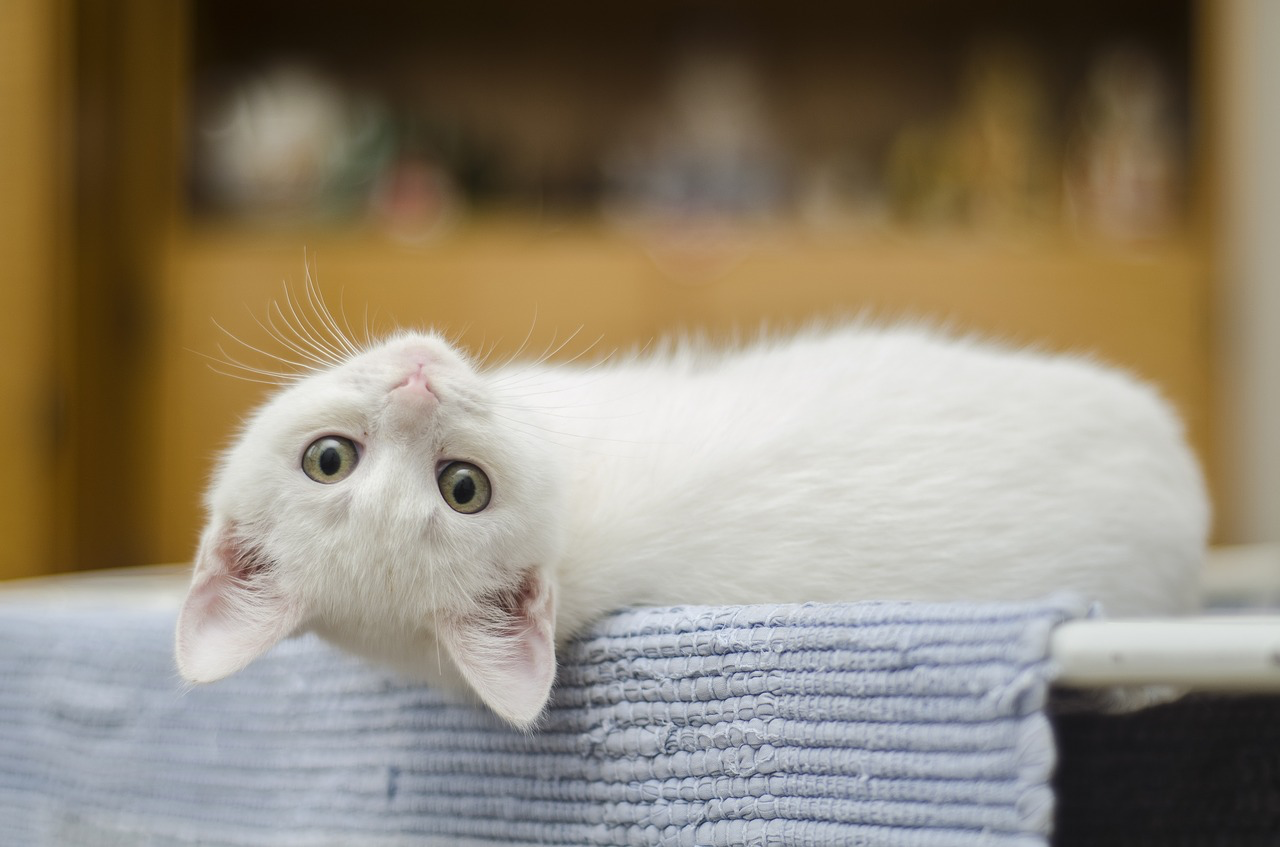
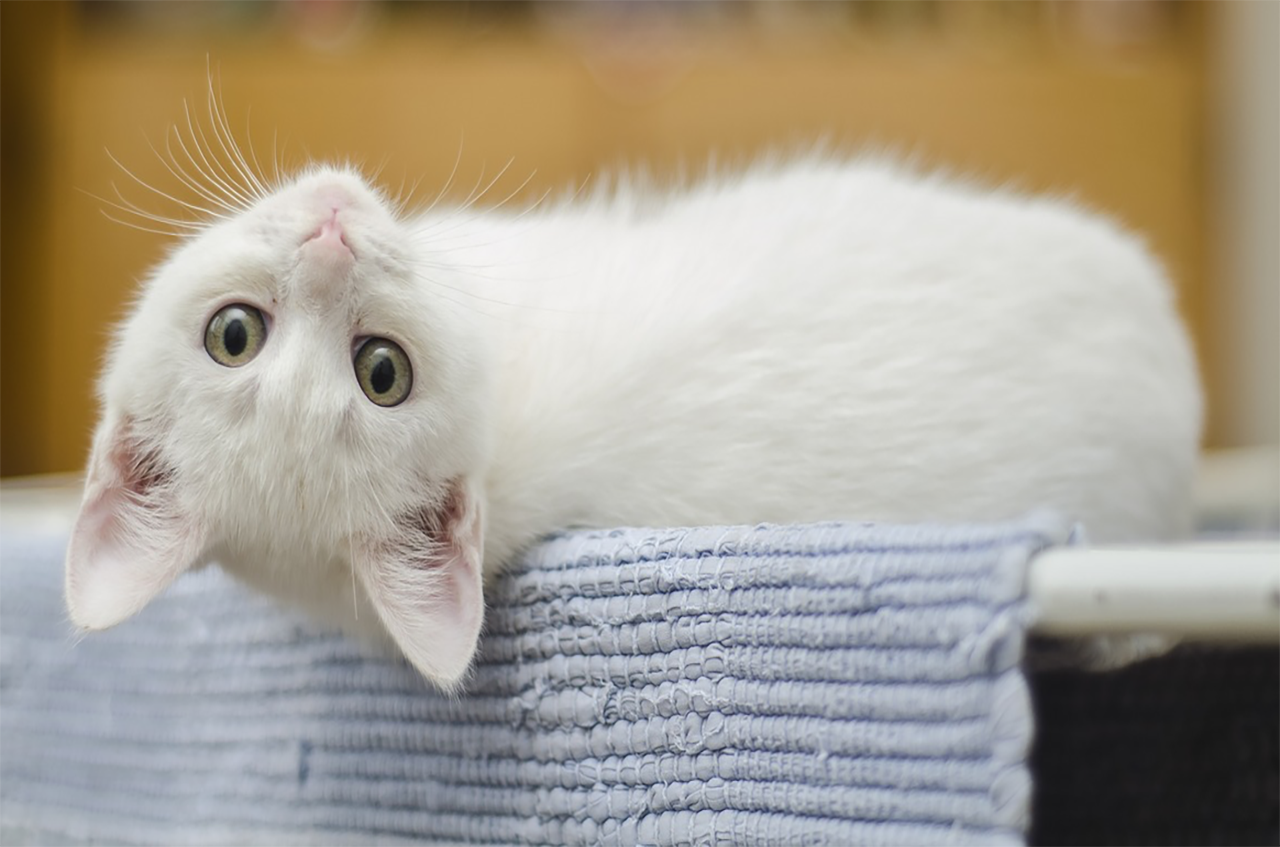
new sweet kitty

diff --git a/index.html b/index.html
@@ -35,8 +35,8 @@
 
 <footer>
 
-<p>cartoon cat Image by <a href="https://pixabay.com/users/naobim-1099306/?utm_source=link-attribution&amp;utm_medium=referral&amp;utm_campaign=image&amp;utm_content=1217109">naobim</a> from <a href="https://pixabay.com/?utm_source=link-attribution&amp;utm_medium=referral&amp;utm_campaign=image&amp;utm_content=1217109">Pixabay</a>
-angry white cat Image by <a href="https://pixabay.com/users/TaniaVdB-54472/?utm_source=link-attribution&amp;utm_medium=referral&amp;utm_campaign=image&amp;utm_content=408761">Tania Van den Berghen</a> from <a href="https://pixabay.com/?utm_source=link-attribution&amp;utm_medium=referral&amp;utm_campaign=image&amp;utm_content=408761">Pixabay</a>
+<p>Cute white kitty image by <a href="https://pixabay.com/users/Konevi-6622462/?utm_source=link-attribution&amp;utm_medium=referral&amp;utm_campaign=image&amp;utm_content=3796529">Konevi</a> from <a href="https://pixabay.com/?utm_source=link-attribution&amp;utm_medium=referral&amp;utm_campaign=image&amp;utm_content=3796529">Pixabay</a>
+angry white cat image by <a href="https://pixabay.com/users/TaniaVdB-54472/?utm_source=link-attribution&amp;utm_medium=referral&amp;utm_campaign=image&amp;utm_content=408761">Tania Van den Berghen</a> from <a href="https://pixabay.com/?utm_source=link-attribution&amp;utm_medium=referral&amp;utm_campaign=image&amp;utm_content=408761">Pixabay</a>
 </p>
 
     </footer>

diff --git a/script.js b/script.js
@@ -7,7 +7,7 @@ var catBody = {};
 catBody.catResponses = ["The cat purrs.","The cat rubs against you", "The cat curls up in your lap", "The cat wags it's tail in warning", "The cat licks you with it's sandpaper tongue", "CAT ATTACK", "The cat meows.", "You get a sweet kitty blink.", "The cat rolls over.", "CAT ATTACK"];
 //connecting html cat img to js
 var catImage = document.getElementById('catImage');
-var image = "img/kitty-crop.png";
+var image = "img/lay-kitty-white-crop.png";
 catImage.src = image;
 //making a method for catBody.whatCatDoes
 catBody.whatCatDoes = function(){
@@ -21,7 +21,7 @@ catBody.whatCatDoes = function(){
   var randomResponse = this.catResponses[randomIndex];
 //jquery to return results to html
   if (randomResponse != "CAT ATTACK")
-    { var image = "img/kitty-crop.png";
+    { var image = "img/lay-kitty-white-crop.png";
       catImage.src = image;
       $("#catReact").text(randomResponse);
     //  $("#catReact").fadeIn(3000);

diff --git a/css/main.css b/css/main.css
@@ -24,10 +24,12 @@ align-items: center;
 }
 .head {
   width: 100%;
+  margin: 0 auto;
   display: flex;
   justify-content: center;
   text-align: center;
   flex-wrap: wrap;
+  padding: 50px 40px 50px 40px;
 }
 
 h1, h2, p {
@@ -57,7 +59,12 @@ span {
 
 }
 
+button {
+  background:none;
+  border:0px;
 
+
+}
 
 
 #petTheCat{
@@ -66,13 +73,9 @@ span {
   background: #419d7803;
   font-family: 'Ultra', serif;
   font-size: 40px;
-height: 930px;
+height: 840px;
 width: 100%;
-border: 0px solid #419D78;
-
-
-
-
+/*border: 0px solid #419D78;*/
 }
 
 #catReact {
@@ -94,6 +97,11 @@ border: 0px solid #419D78;
   position: absolute;
     top: 0%;
     left: 0%;
+}
+
+footer p {
+  width: 100%;
+  
 }
 
 @media all and (min-width: 1200px) {
